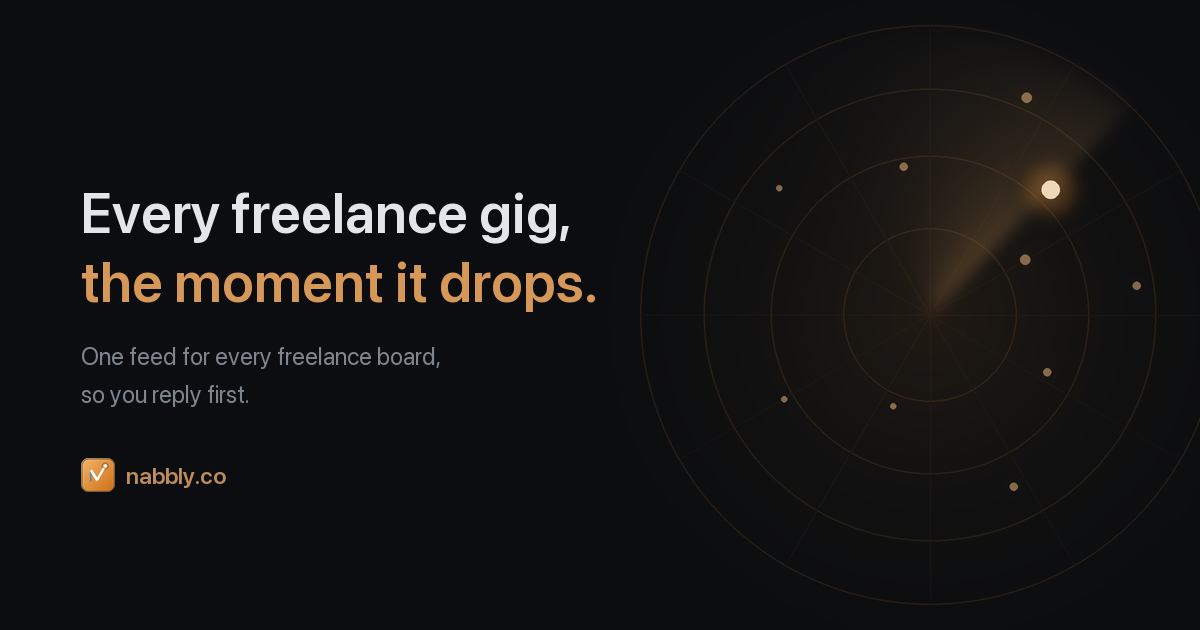
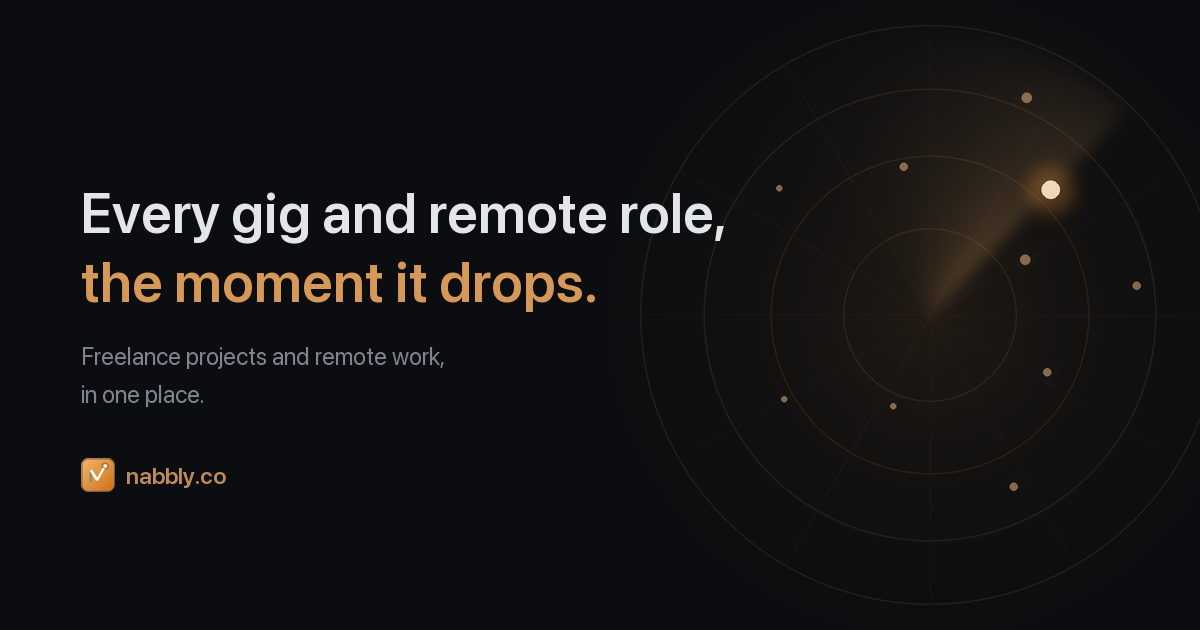
Remove FAQ schema for an FAQ that isn't there, refresh the share card
The page carried FAQPage markup describing three questions that appeared
nowhere on it — each string occurred exactly once in the file, inside the
JSON-LD. The visible FAQ block was removed a while back for duplicating the
app's own FAQ tab, and the structured data was left behind. Google requires
FAQ content to be visible on the page it is marked up on, so this was a
guidelines violation earning nothing in return: FAQ rich results have been
limited to health and government sites since 2023. WebSite, Organization and
SoftwareApplication stay, and they still validate.

The OG image was still selling "Every freelance gig" and "One feed for every
freelance board" — the promise the site widened away from today. That card is
what renders in Slack, LinkedIn and iMessage, so every shared link, including
any a NextNW member posts, was advertising the narrower product. Regenerated
from tools/make_og.py, which now holds the current headline so the next
rewrite regenerates rather than drifts.

Changed region(s): [[0.185, 0.3016, 0.6167, 0.3921], [0.0617, 0.5429, 0.37, 0.6635]]

diff --git a/site/index.html b/site/index.html
@@ -50,9 +50,16 @@
 <link rel="preconnect" href="https://app.nabbly.co" crossorigin>
 <link rel="dns-prefetch" href="https://app.nabbly.co">
 
-<!-- ── Structured data: search engines read this to build rich
-     results (site name + sitelinks search box, the app card, and the
-     FAQ accordion straight in Google). ───────────────────────────── -->
+<!-- ── Structured data: the site name, a sitelinks search box, and the
+     app card.
+     NO FAQPage HERE, DELIBERATELY. There was one, describing three questions
+     that appeared nowhere on the page — the visible FAQ block was removed
+     (it duplicated the app's own FAQ tab) and the markup was left behind.
+     Google requires FAQ content to be visible on the page it is marked up
+     on, so that was a guidelines violation earning nothing: FAQ rich results
+     have been limited to health and government sites since 2023. If a
+     visible FAQ ever returns to this page, the markup can come back with
+     it. ─────────────────────────────────────────────────────────── -->
 <script type="application/ld+json">
 {
   "@context": "https://schema.org",
@@ -87,26 +94,6 @@
       "url": "https://app.nabbly.co/",
       "description": "Nabbly aggregates freelance projects and remote roles from every job board and hiring community in real time, sorts them by skill, budget and urgency, and alerts you the moment a match drops.",
       "offers": { "@type": "Offer", "price": "0", "priceCurrency": "USD" }
-    },
-    {
-      "@type": "FAQPage",
-      "mainEntity": [
-        {
-          "@type": "Question",
-          "name": "How fresh are the gigs?",
-          "acceptedAnswer": { "@type": "Answer", "text": "The board refreshes itself every couple of minutes, around the clock. Most gigs appear within minutes of being posted, and being early is the part you can control." }
-        },
-        {
-          "@type": "Question",
-          "name": "Do I have to sign up?",
-          "acceptedAnswer": { "@type": "Answer", "text": "No. The entire board is free to search and browse without an account. Signing in saves your profile so the board sorts itself around you. Pro is free to try for 14 days whenever you want it, and you choose when to start." }
-        },
-        {
-          "@type": "Question",
-          "name": "What's the difference between Free and Pro?",
-          "acceptedAnswer": { "@type": "Answer", "text": "Free gives you every gig from every source, plus search, browse, and a drafted reply on every card. Pro adds the parts that help you reply first: gigs ranked by fit, replies drafted from the actual post, market-rate data, and instant alerts." }
-        }
-      ]
     }
   ]
 }

diff --git a/tools/make_og.py b/tools/make_og.py
@@ -178,11 +178,15 @@ f_h = font(56, "Semibold")
 f_sub = font(24, "Regular", ARIAL)
 f_url = font(23, "Semibold", ARIAL_B)
 
-d.text((X, H * 0.335), "Every freelance gig,", font=f_h, fill=INK, anchor="lm")
+# Matches the page headline. This card is what renders in Slack, LinkedIn and
+# iMessage, so when the promise on the site widened from "every freelance gig"
+# to gigs AND remote roles, an unregenerated card kept selling the narrower one
+# to everyone who shared a link.
+d.text((X, H * 0.335), "Every gig and remote role,", font=f_h, fill=INK, anchor="lm")
 d.text((X, H * 0.445), "the moment it drops.", font=f_h, fill=SOFT_AMBER, anchor="lm")
-d.text((X, H * 0.565), "One feed for every freelance board,", font=f_sub,
+d.text((X, H * 0.565), "Freelance projects and remote work,", font=f_sub,
        fill=MUTE, anchor="lm")
-d.text((X, H * 0.625), "so you reply first.", font=f_sub, fill=MUTE, anchor="lm")
+d.text((X, H * 0.625), "in one place.", font=f_sub, fill=MUTE, anchor="lm")
 
 # Sign-off lockup: the mark beside the domain, same as the weekly posts.
 MK = 34
